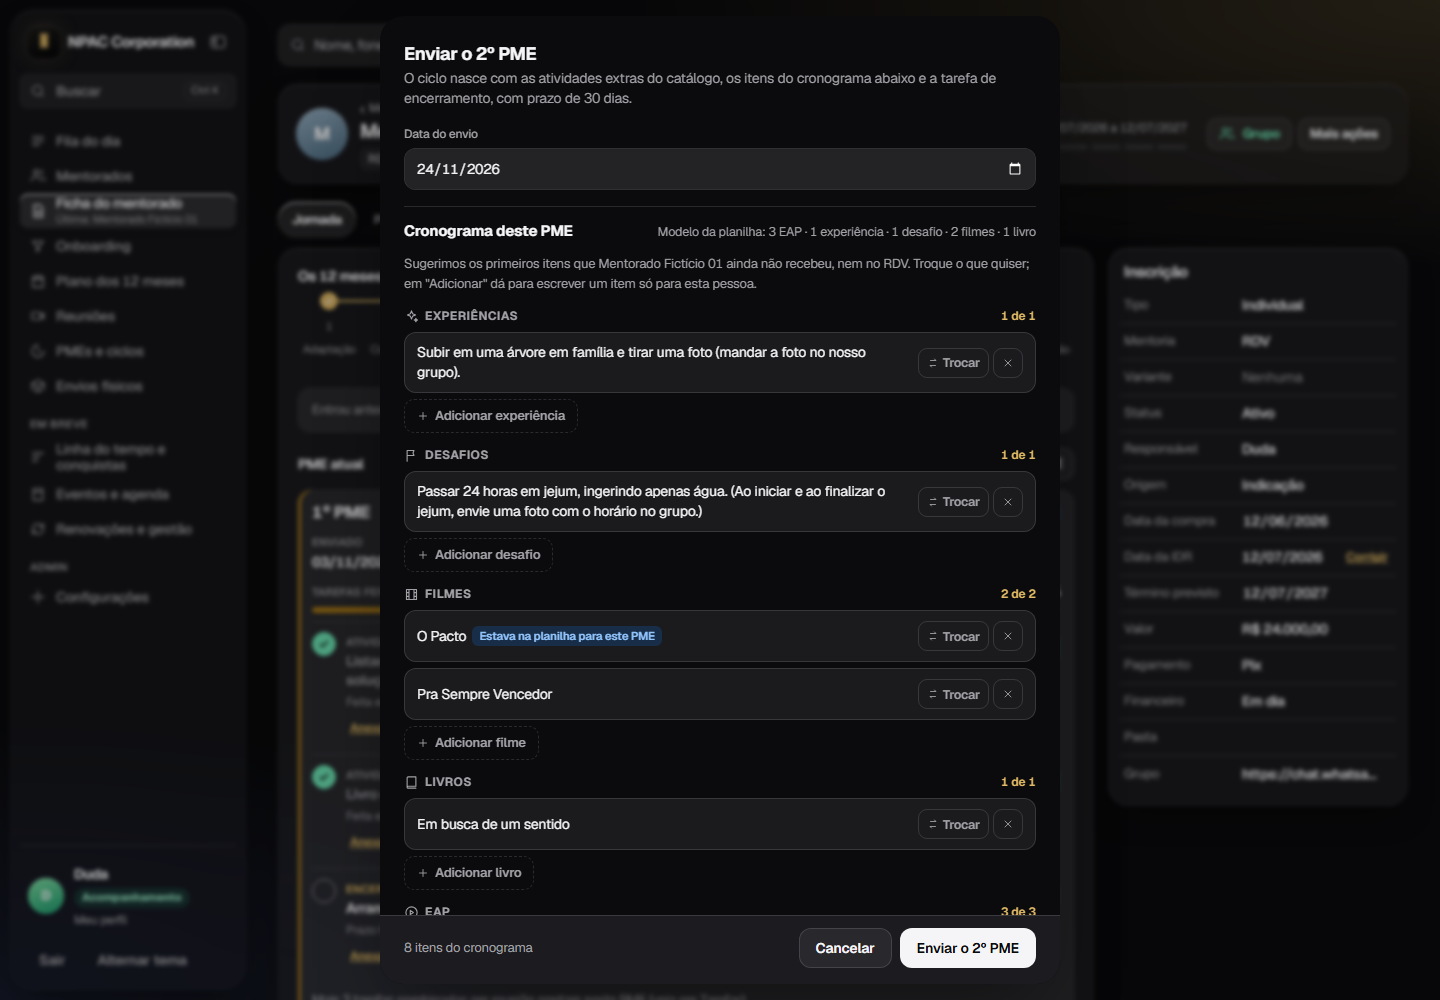
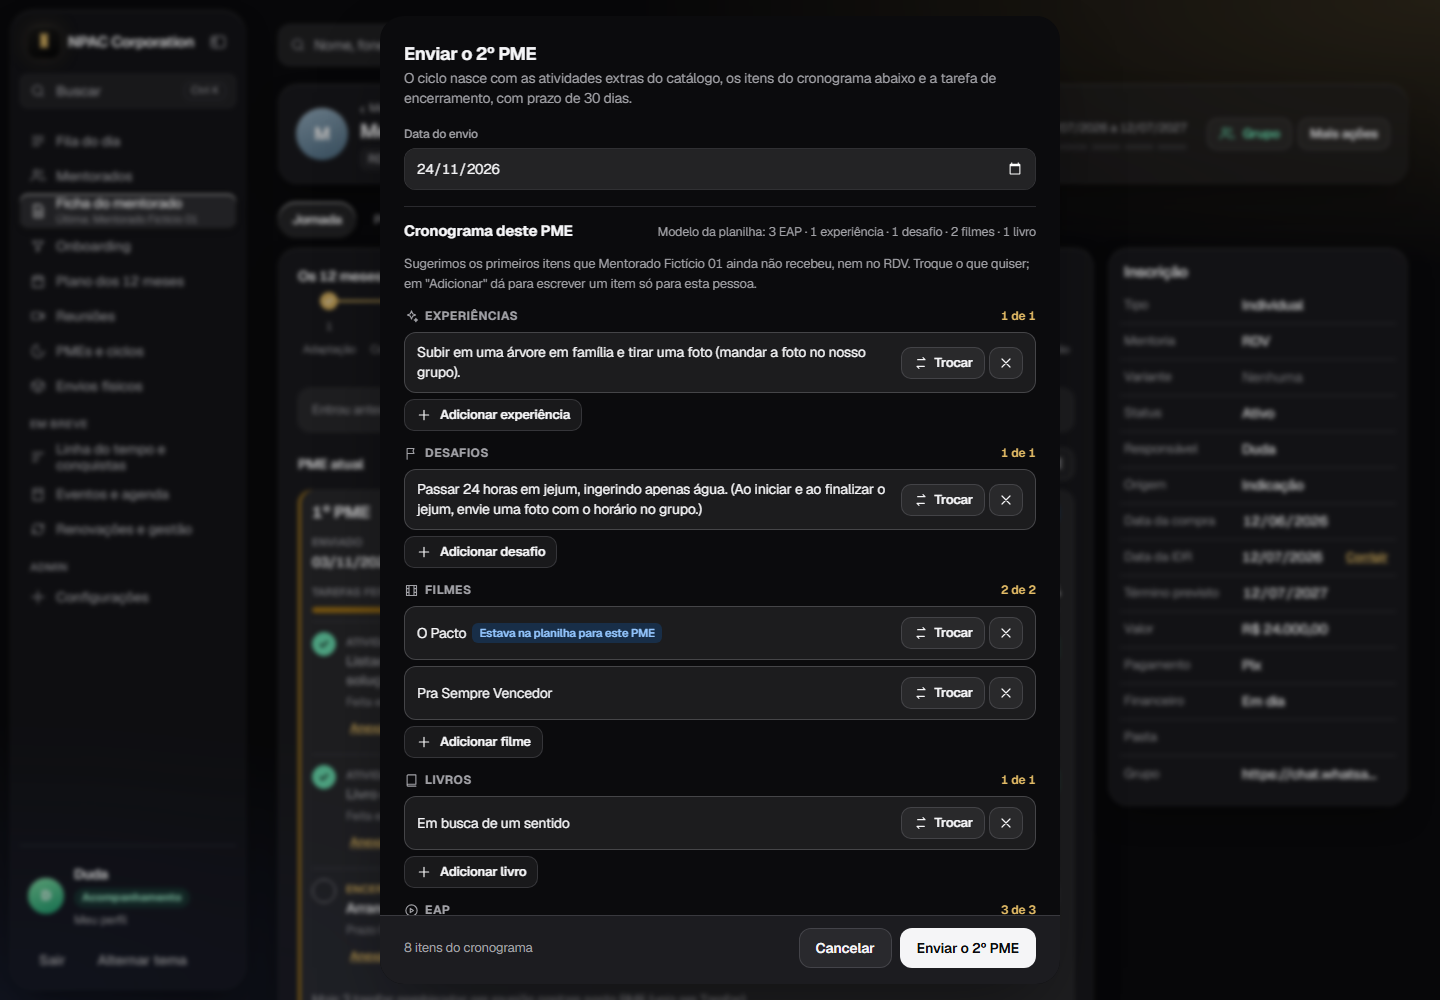
docs(NPAC-60): contraste, troca de item e 3 opcoes do banco no celular

diff --git a/docs/acompanhamento/prototipo/cronograma/prototipo.js b/docs/acompanhamento/prototipo/cronograma/prototipo.js
@@ -27,6 +27,8 @@
     t.includes('youtube') ? `<span>${t.split(' https')[0]}</span> <a class="cr-link" href="#">youtube.com ${svg(SETA, 'cr-s')}</a>` : t;
 
   const css = `
+  .ac{--cr-surf:#fff;--cr-bd:rgba(60,60,67,.2)}
+  .dark .ac{--cr-surf:rgba(255,255,255,.07);--cr-bd:rgba(235,235,245,.2)}
   .ac .cr-i{width:15px;height:15px;flex:none}
   .ac .cr-s{width:12px;height:12px;flex:none}
   .ac .cr-bloco{display:inline-flex;align-items:center;gap:5px;height:22px;padding:0 8px;border-radius:7px;font-size:12px;font-weight:600;white-space:nowrap;background:rgba(120,120,128,.14);color:var(--tag-neutro)}
@@ -40,7 +42,7 @@
   .ac .cr-grupo-h{display:flex;align-items:center;justify-content:space-between;gap:8px;font-size:12px;font-weight:700;text-transform:uppercase;letter-spacing:.04em;color:var(--ink2)}
   .ac .cr-grupo-h .cr-ok{color:var(--gold-text);text-transform:none;letter-spacing:0;font-weight:600}
   .ac .cr-grupo-h .cr-falta{color:var(--ink3);text-transform:none;letter-spacing:0;font-weight:600}
-  .ac .cr-item{display:flex;align-items:center;gap:10px;padding:10px 12px;border:1px solid var(--line);border-radius:12px;background:var(--gl2, rgba(255,255,255,.5));font-size:14px;line-height:1.4}
+  .ac .cr-item{display:flex;align-items:center;gap:10px;padding:10px 12px;border:1px solid var(--cr-bd);border-radius:12px;background:var(--cr-surf);font-size:14px;line-height:1.4;color:var(--ink)}
   .ac .cr-item .cr-tx{flex:1;min-width:0}
   .ac .cr-item .cr-tx small{display:block;color:var(--ink2);font-size:12px;margin-top:2px}
   .ac .cr-item .cr-acts{display:flex;gap:4px;flex:none}
@@ -61,11 +63,11 @@
   .ac .cr-st.nao{background:var(--tag-bad-bg);color:var(--tag-bad)}
   .ac .cr-st.parcial{background:var(--tag-gold-bg);color:var(--tag-gold)}
   .ac .cr-resumo{display:grid;grid-template-columns:repeat(auto-fit,minmax(118px,1fr));gap:8px}
-  .ac .cr-tile{border:1px solid var(--line);border-radius:12px;padding:10px 12px;display:grid;gap:2px}
-  .ac .cr-tile b{font-size:20px;letter-spacing:-.02em}
+  .ac .cr-tile{border:1px solid var(--cr-bd);background:var(--cr-surf);border-radius:12px;padding:10px 12px;display:grid;gap:2px;align-content:start}
+  .ac .cr-tile b{font-size:20px;letter-spacing:-.02em;color:var(--ink)}
   .ac .cr-tile span{font-size:12.5px;color:var(--ink2);display:flex;align-items:center;gap:5px}
-  .ac .cr-tile small{font-size:12px;color:var(--ink3)}
-  .ac .cr-pme{border:1px solid var(--line);border-radius:14px;padding:12px;display:grid;gap:8px}
+  .ac .cr-tile small{font-size:12px;color:var(--ink2)}
+  .ac .cr-pme{border:1px solid var(--cr-bd);background:var(--cr-surf);border-radius:14px;padding:12px;display:grid;gap:8px}
   .ac .cr-pme-h{display:flex;flex-wrap:wrap;justify-content:space-between;align-items:center;gap:6px 10px}
   .ac .cr-pme-h b{font-size:14.5px}
   .ac .cr-pme-h span{font-size:12.5px;color:var(--ink2)}
@@ -87,19 +89,48 @@
   .ac .cr-banco{display:grid}
   .ac .cr-bi{display:grid;grid-template-columns:28px 1fr auto;gap:4px 12px;align-items:start;padding:12px 4px;border-top:1px solid var(--line);font-size:14px;line-height:1.4}
   .ac .cr-bi:first-child{border-top:0}
-  .ac .cr-bi .n{color:var(--ink3);font-size:12.5px;padding-top:2px;text-align:right}
-  .ac .cr-bi small{display:block;color:var(--ink3);font-size:12.5px;margin-top:3px}
-  .ac .cr-bi.esc .cr-tx{color:var(--ink3)}
+  .ac .cr-bi .n{color:var(--ink2);font-size:12.5px;padding-top:2px;text-align:right}
+  .ac .cr-bi small{display:block;color:var(--ink2);font-size:12.5px;margin-top:3px}
+  .ac .cr-bi.esc .cr-tx{color:var(--ink2)}
   .ac .cr-bi .cr-acts{display:flex;gap:4px}
   .ac .cr-col{display:grid;grid-template-columns:minmax(0,1fr) minmax(0,1.4fr);gap:8px 16px;align-items:center;padding:12px 0;border-top:1px solid var(--line)}
   .ac .cr-col:first-of-type{border-top:0}
   .ac .cr-col .nm b{display:block;font-size:14px}
-  .ac .cr-col .nm small{color:var(--ink3);font-size:12.5px}
+  .ac .cr-col .nm small{color:var(--ink2);font-size:12.5px}
   .ac .cr-col .dica{grid-column:2;font-size:12.5px;color:var(--tag-info);margin-top:-2px}
-  .ac .cr-arq{display:flex;align-items:center;gap:10px;flex-wrap:wrap;padding:10px 12px;border:1px solid var(--line);border-radius:12px;font-size:14px}
+  .ac .cr-arq{display:flex;align-items:center;gap:10px;flex-wrap:wrap;padding:10px 12px;border:1px solid var(--cr-bd);background:var(--cr-surf);border-radius:12px;font-size:14px}
   .ac .cr-arq b{font-weight:600}
   .ac .cr-nota{font-size:13px;color:var(--ink2);margin:0}
   .ac .cr-cta{display:flex;flex-wrap:wrap;align-items:center;justify-content:space-between;gap:10px;padding:12px;border:1px dashed var(--line);border-radius:12px;font-size:13.5px;color:var(--ink2)}
+  .ac .cr-x{width:34px;padding:0!important;justify-content:center}
+  .ac .cr-acts .btn{gap:5px}
+  .ac .cr-troca{border:1.5px solid var(--ink);border-radius:12px;background:var(--cr-surf);overflow:hidden}
+  .ac .cr-troca-h{display:flex;align-items:center;justify-content:space-between;gap:8px;padding:10px 12px 6px;font-size:14px;font-weight:700}
+  .ac .cr-troca-at{padding:0 12px 10px;font-size:12.5px;color:var(--ink2)}
+  .ac .cr-troca .q{display:flex;align-items:center;gap:8px;height:40px;margin:0 12px 6px;padding:0 12px;border-radius:10px;border:1px solid var(--cr-bd);color:var(--ink2);font-size:14px}
+  .ac .cr-troca .cr-op{display:flex;align-items:center;justify-content:space-between;gap:10px;padding:11px 12px;border-top:1px solid var(--cr-bd);border-radius:0;font-size:14px;color:var(--ink)}
+  .ac .cr-troca .cr-op:hover{background:transparent}
+  .ac .cr-troca .cr-op .esc{font-size:12.5px;font-weight:700;color:var(--ink);white-space:nowrap}
+  .ac .cr-troca .cr-op-sec{padding:10px 12px 4px;border-top:1px solid var(--cr-bd);font-size:11.5px;font-weight:700;text-transform:uppercase;letter-spacing:.04em;color:var(--ink2)}
+  .ac .cr-troca .cr-op.off{color:var(--ink2);border-top:0;padding-top:6px;flex-wrap:nowrap!important}
+  .ac .cr-troca .cr-op .cr-st{flex:none}
+  .ac .cr-troca .cr-op.novo{border-top:1px solid var(--cr-bd);margin:0;padding:12px;font-weight:700}
+  .ac .cr-mais{display:inline-flex;align-items:center;justify-content:center;width:44px;height:44px;border-radius:12px;border:1px solid var(--cr-bd);background:var(--cr-surf);color:var(--ink);font-size:20px;line-height:1}
+  .ac .cr-seg.rola{flex-wrap:nowrap;overflow-x:auto;margin:0 -16px;padding:0 16px 2px;scrollbar-width:none}
+  .ac .cr-seg.rola button{flex:none}
+  .ac .cr-sel{width:100%;height:44px;border-radius:12px;border:1px solid var(--cr-bd);background:var(--cr-surf);padding:0 12px;font-size:16px;color:var(--ink);font-weight:600}
+  .ac .cr-bm{display:grid;gap:2px;padding:12px 0 2px;border-top:1px solid var(--cr-bd);font-size:15px;line-height:1.4;color:var(--ink)}
+  .ac .cr-bm:first-child{border-top:0}
+  .ac .cr-bm .meta{display:flex;align-items:center;flex-wrap:wrap;gap:0 14px;font-size:13px;color:var(--ink2)}
+  .ac .cr-bm .meta a{display:inline-flex;align-items:center;min-height:44px;font-weight:700;color:var(--ink);text-decoration:underline;text-underline-offset:2px}
+  .ac .cr-bm.esc>span{color:var(--ink2)}
+  .ac .cr-bm-a{display:grid;grid-template-columns:1fr 44px;gap:10px;align-items:start;padding:12px 0;border-top:1px solid var(--cr-bd);font-size:15px;line-height:1.4}
+  .ac .cr-bm-a:first-child{border-top:0}
+  .ac .cr-bm-a small{display:block;font-size:13px;color:var(--ink2);margin-top:4px}
+  .ac .cr-bc{border:1px solid var(--cr-bd);background:var(--cr-surf);border-radius:14px;padding:12px;display:grid;gap:8px;font-size:15px;line-height:1.4}
+  .ac .cr-bc-h{display:flex;align-items:center;justify-content:space-between;gap:8px;font-size:13px;color:var(--ink2)}
+  .ac .cr-bc-h .ic{display:flex;gap:6px}
+  .ac .cr-bc-h .ic button{width:44px;height:44px;border-radius:12px;border:1px solid var(--cr-bd);background:transparent;color:var(--ink);display:inline-flex;align-items:center;justify-content:center}
   .ac .cr-tile.cr-acao{box-shadow:inset 0 0 0 1.5px var(--ink)}
   .ac .cr-tile.cr-acao .rev{font-size:12.5px;font-weight:700;color:var(--ink);text-decoration:underline}
   .cr-dlg .cr-rodape{position:sticky;bottom:-24px;margin:4px -24px -24px;padding:12px 24px 16px;background:var(--gl-solid);border-top:1px solid var(--line);justify-content:space-between!important;align-items:center;z-index:2}
@@ -161,21 +192,24 @@
         .map(
           (t, i) => `<div class="cr-item"><div class="cr-tx">${link(t)}${
             b === 'FILME' && i === 0 ? '<span class="cr-plan">Estava na planilha para este PME</span>' : ''
-          }</div><div class="cr-acts"><button type="button" class="cr-ib" aria-label="Trocar">${svg(TROCA, 'cr-s')}<span class="rot">Trocar</span></button><button type="button" class="cr-ib" aria-label="Tirar">${svg(X, 'cr-s')}</button></div></div>`,
+          }</div><div class="cr-acts"><button type="button" class="btn btn-secondary sm">${svg(TROCA, 'cr-s')}Trocar</button><button type="button" class="btn btn-secondary sm cr-x" aria-label="Tirar">${svg(X, 'cr-s')}</button></div></div>`,
         )
         .join('');
-      const busca =
-        trocar && b === 'DESAFIO'
-          ? `<div class="cr-busca"><div class="q">${svg(BUSCA, 'cr-s')} Buscar desafio</div>
-            <div class="cr-op"><span>Durante 7 dias, beber pelo menos 3 litros de água por dia.</span></div>
-            <div class="cr-op"><span>Fazer 100 agachamentos em um único dia.</span></div>
-            <div class="cr-op"><span>Durante 7 dias, fazer pelo menos um elogio sincero por dia para alguém.</span></div>
-            <div class="cr-op off"><span>Durante 3 dias colocar despertador no celular de uma em uma hora…</span><small>Já recebeu no 1º PME</small></div>
-            <div class="cr-op off"><span>Dormir no chão durante uma noite.</span><small>Já recebeu no RDV</small></div>
+      const troca = trocar && b === 'DESAFIO';
+      const busca = troca
+        ? `<div class="cr-troca"><div class="cr-troca-h"><span>Trocar o desafio</span><button type="button" class="btn btn-ghost sm">Cancelar</button></div>
+            <div class="cr-troca-at">No lugar de: Passar 24 horas em jejum, ingerindo apenas água.</div>
+            <div class="q">${svg(BUSCA, 'cr-s')} Buscar desafio</div>
+            <div class="cr-op"><span>Durante 7 dias, beber pelo menos 3 litros de água por dia.</span><span class="esc">Escolher</span></div>
+            <div class="cr-op"><span>Fazer 100 agachamentos em um único dia.</span><span class="esc">Escolher</span></div>
+            <div class="cr-op"><span>Durante 7 dias, fazer pelo menos um elogio sincero por dia para alguém.</span><span class="esc">Escolher</span></div>
+            <div class="cr-op-sec">Já recebeu · não dá para repetir</div>
+            <div class="cr-op off"><span>Durante 3 dias colocar despertador no celular de uma em uma hora…</span><span class="cr-st">1º PME</span></div>
+            <div class="cr-op off"><span>Dormir no chão durante uma noite.</span><span class="cr-st">RDV</span></div>
             <button type="button" class="cr-op novo">${svg(MAIS, 'cr-s')}Escrever um desafio só para esta pessoa</button></div>`
-          : '';
-      return `<div class="cr-grupo"><div class="cr-grupo-h"><span style="display:flex;align-items:center;gap:6px">${svg(ICON[b])}${PLURAL[b]}</span><span class="cr-ok">${SUG[b].length} de ${MODELO[b]}</span></div>${itens}${busca}${
-        trocar && b === 'DESAFIO' ? '' : `<button type="button" class="cr-add">${svg(MAIS, 'cr-s')}Adicionar ${b === 'EAP' ? 'EAP' : NOME[b].toLowerCase()}</button>`
+        : '';
+      return `<div class="cr-grupo"><div class="cr-grupo-h"><span style="display:flex;align-items:center;gap:6px">${svg(ICON[b])}${PLURAL[b]}</span><span class="cr-ok">${SUG[b].length} de ${MODELO[b]}</span></div>${troca ? busca : itens}${
+        trocar && b === 'DESAFIO' ? '' : `<button type="button" class="btn btn-secondary sm" style="justify-self:start">${svg(MAIS, 'cr-s')}Adicionar ${b === 'EAP' ? 'EAP' : NOME[b].toLowerCase()}</button>`
       }</div>`;
     }).join('');
     const sec = document.createElement('div');
@@ -302,7 +336,7 @@
   }
 
   /* 4. Configurações > Cronograma (banco, só Admin). */
-  function banco() {
+  function banco(opcao) {
     estilo();
     const tabs = document.querySelector('.view .tabs');
     tabs.querySelectorAll('a').forEach((a) => a.classList.remove('on'));
@@ -318,7 +352,7 @@
     const seg = ORDEM.map(
       (b, i) => `<button type="button" class="${i === 1 ? 'on' : ''}">${svg(ICON[b])}${PLURAL[b]} <em>${[48, 103, 35, 29, 78][i]}</em></button>`,
     ).join('');
-    const itens = [
+    const dados = [
       ['Durante 3 dias colocar despertador no celular de uma em uma hora com a escrita: isso que estou prestes a fazer está me aproximando ou distanciando dos meus sonhos?', 'Enviado 43 vezes', false],
       ['Passar 24 horas em jejum, ingerindo apenas água. (Ao iniciar e ao finalizar o jejum, envie uma foto com o horário no grupo.)<small style="font-style:italic">“Grande parte do sofrimento vem da dificuldade em lidar com pequenos desconfortos…”</small>', 'Enviado 10 vezes', false],
       ['Fazer 100 agachamentos em um único dia. (Grave um pequeno vídeo realizando parte dos agachamentos ou envie uma foto ao concluir.)<small style="font-style:italic">“Seu corpo é capaz de muito mais do que você imagina…”</small>', 'Enviado 6 vezes', false],
@@ -326,9 +360,10 @@
       ['Dormir no chão durante uma noite. (Envie uma foto do local onde dormiu.)<small style="font-style:italic">“Quando escolhemos abrir mão do conforto por um curto período, passamos a valorizá-lo muito mais…”</small>', 'Enviado 5 vezes', false],
       ['Durante 7 dias, beber pelo menos 3 litros de água por dia. (Envie uma foto da garrafa utilizada ou um registro diário da quantidade consumida.)<small style="font-style:italic">“Disciplina também é cuidar do próprio corpo…”</small>', 'Nunca enviado', false],
       ['Durante 30 dias, manter sua cama arrumada antes de sair do quarto. (Envie uma foto da cama arrumada no primeiro e no último dia do desafio.)', 'Nunca enviado', false],
-    ]
+    ];
+    const itens = dados
       .map(
-        ([t, m, esc], i) => `<div class="cr-bi ${esc ? 'esc' : ''}"><span class="n">${i + 1}</span><div class="cr-tx">${t}<small>${esc ? '<span class="cr-st" style="height:20px;margin-right:6px">Escondido</span>' : ''}${m}</small></div><div class="cr-acts"><button type="button" class="cr-ib">Editar</button><button type="button" class="cr-ib">${esc ? 'Mostrar' : 'Esconder'}</button></div></div>`,
+        ([t, m, esc], i) => `<div class="cr-bi ${esc ? 'esc' : ''}"><span class="n">${i + 1}</span><div class="cr-tx">${t}<small>${esc ? '<span class="cr-st" style="height:20px;margin-right:6px">Escondido</span>' : ''}${m}</small></div><div class="cr-acts"><button type="button" class="btn btn-secondary sm">Editar</button><button type="button" class="btn btn-secondary sm">${esc ? 'Mostrar' : 'Esconder'}</button></div></div>`,
       )
       .join('');
     corpo.innerHTML = `<section class="card sec">
@@ -336,6 +371,34 @@
       <p class="cr-nota" style="margin-bottom:12px">A Operação escolhe daqui no envio de cada PME. Item já enviado não se apaga: esconda para ele sair das sugestões. Corrigir o texto não muda o que já foi enviado.</p>
       <div class="cr-barra" style="margin-bottom:8px"><div class="cr-seg">${seg}</div><div class="cr-q">${svg(BUSCA, 'cr-s')} Buscar no banco</div></div>
       <div class="cr-banco">${itens}</div></section>`;
+    if (!opcao) return;
+    /* Opções só do celular (375 px), para escolher. */
+    const texto = (t) => t.replace(/<small[^>]*>.*?<\/small>/, '');
+    const segRola = `<div class="cr-seg rola" style="margin-bottom:10px">${seg}</div>`;
+    const busca = `<div class="cr-q" style="max-width:none;height:44px;margin-bottom:6px">${svg(BUSCA, 'cr-s')} Buscar no banco</div>`;
+    const OLHO = 'M2 12s3.5-7 10-7 10 7 10 7-3.5 7-10 7S2 12 2 12zM12 15a3 3 0 1 0 0-6 3 3 0 0 0 0 6z';
+    const LAPIS = 'M4 20h4L19 9l-4-4L4 16zM14 6l4 4';
+    const tagEsc = '<span class="cr-st" style="height:20px;margin-right:6px">Escondido</span>';
+    let lista = '';
+    let filtro = segRola + busca;
+    if (opcao === 'A') {
+      filtro = `<select class="cr-sel" style="margin-bottom:8px">${ORDEM.map((b, i) => `<option ${i === 1 ? 'selected' : ''}>${PLURAL[b]} · ${[48, 103, 35, 29, 78][i]}</option>`).join('')}</select>${busca}`;
+      lista = dados
+        .map(([t, m, esc]) => `<div class="cr-bm-a"><div style="color:var(${esc ? '--ink2' : '--ink'})">${texto(t)}<small>${esc ? tagEsc : ''}${m.split(' · ')[0]}</small></div><button type="button" class="cr-mais" aria-label="Opções">⋯</button></div>`)
+        .join('');
+    } else if (opcao === 'B') {
+      lista = dados
+        .map(([t, m, esc]) => `<div class="cr-bm ${esc ? 'esc' : ''}"><span>${texto(t)}</span><div class="meta">${esc ? tagEsc : ''}<span>${m.split(' · ')[0]}</span><a href="#">Editar</a><a href="#">${esc ? 'Mostrar' : 'Esconder'}</a></div></div>`)
+        .join('');
+    } else {
+      lista = `<div style="display:grid;gap:8px">${dados
+        .map(([t, m, esc]) => `<div class="cr-bc"><div class="cr-bc-h"><span>${esc ? tagEsc : ''}${m.split(' · ')[0]}</span><span class="ic"><button type="button" aria-label="Editar">${svg(LAPIS)}</button><button type="button" aria-label="${esc ? 'Mostrar' : 'Esconder'}">${svg(OLHO)}</button></span></div><div style="color:var(${esc ? '--ink2' : '--ink'})">${texto(t)}</div></div>`)
+        .join('')}</div>`;
+    }
+    const sec = corpo.querySelector('section');
+    sec.querySelector('.cr-barra').outerHTML = filtro;
+    sec.querySelector('.cr-banco').innerHTML = lista;
+    sec.querySelector('.cr-nota').textContent = 'Esconda o que não quer mais nas sugestões. Item já enviado não se apaga.';
   }
 
   /* 5. Configurações > Importação: card do cronograma com a prévia. */
@@ -372,7 +435,7 @@
         <div>
           ${col('Mentorado Fictício 01', 'Coluna 4 · vai até o 12º mês · 61 itens', ['RDV · Concluído · 12º PME', '2M · Ativo · 2º PME', 'Ignorar esta coluna'], 'A coluna vai até o 12º mês: deve ser o RDV. O que ele recebeu lá também vale na 2M.')}
           ${col('Mentorada 04', 'Coluna 9 · vai até o 5º mês · 26 itens', ['Escolher a ficha…', 'Mentorada Fictícia 04 · RDV · Ativo · 5º PME', 'Mentorada Fictícia 06 · 6M · Ativo · 1º PME', 'Ignorar esta coluna'])}
-          </div><button type="button" class="cr-add" style="margin-top:4px">Ver as outras 23 colunas em dúvida</button></div>
+          </div><button type="button" class="btn btn-secondary sm" style="margin-top:4px;justify-self:start">Ver as outras 23 colunas em dúvida</button></div>
       <div class="cr-sec"><div class="cr-sec-h"><h3>Sem ficha (9)</h3><span class="cr-modelo">Nome da planilha que não achei no sistema</span></div>
         <div>${col('Mentorados 08 e 09', 'Coluna 17 · vai até o 3º mês · 18 itens', ['Ignorar esta coluna', 'Mentorada Fictícia 08 e Mentorado Fictício 09 · RDV · Ativo', 'Buscar outra ficha…'])}</div>
       </div>

diff --git a/docs/acompanhamento/prototipo/cronograma/README.md b/docs/acompanhamento/prototipo/cronograma/README.md
@@ -31,3 +31,11 @@ Depois da crítica: rodapé fixo com "Enviar" e a contagem de itens na janela; "
 "escrever um … só para esta pessoa" dentro da busca); comprovante só em quem marcou Feita, no card; etiqueta "Não fez"
 no próprio item da planilha e texto inteiro (sem cortar) na aba; "Escondido" como etiqueta no banco; "Para você
 decidir" destacado na importação; toque de 44 px no celular e cinza médio nas linhas apagadas (contraste).
+
+## 2ª revisão (24/11, Gabriel: contraste, troca quebrada, banco feio no celular)
+
+Cartões, quadros de números e linhas com fundo sólido (branco no claro) e borda mais forte; botões com as classes do
+sistema (`btn btn-secondary sm`); a troca de item vira um painel no lugar do item, com "Escolher" em cada opção e "Já
+recebeu · não dá para repetir" em grupo separado. Banco no celular em 3 opções (`banco-a/b/c-375-claro.png`), para
+escolher: A = escolha do bloco em lista + menu "⋯" por item; B = blocos em uma linha que rola + "Editar · Esconder"
+escritos em cada item; C = cada item num cartão com ícones de lápis e olho.
